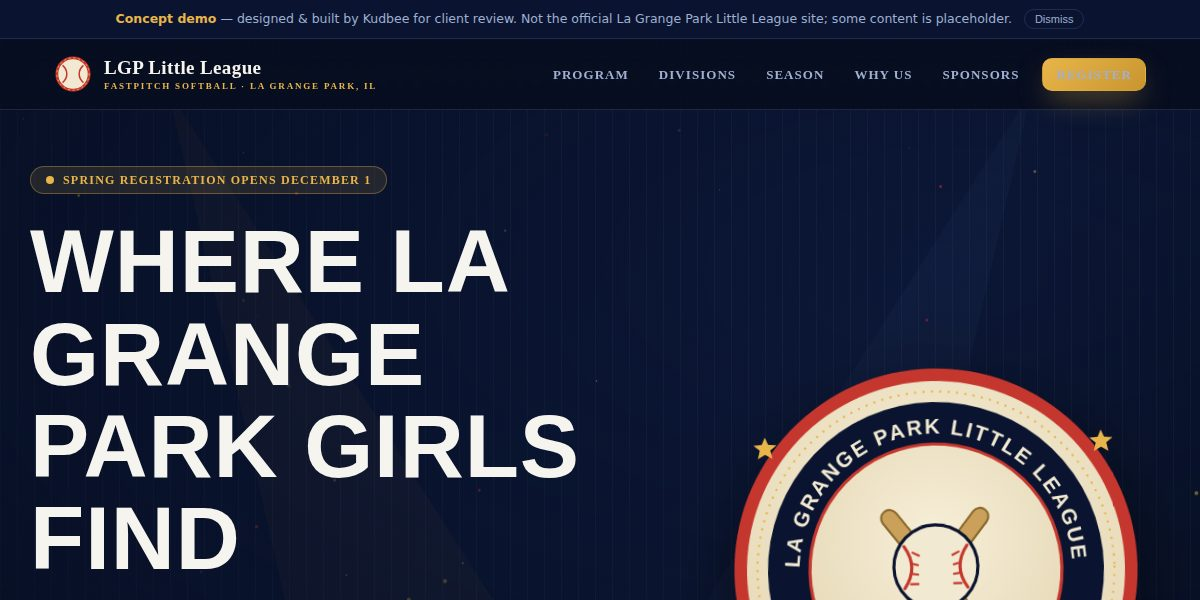
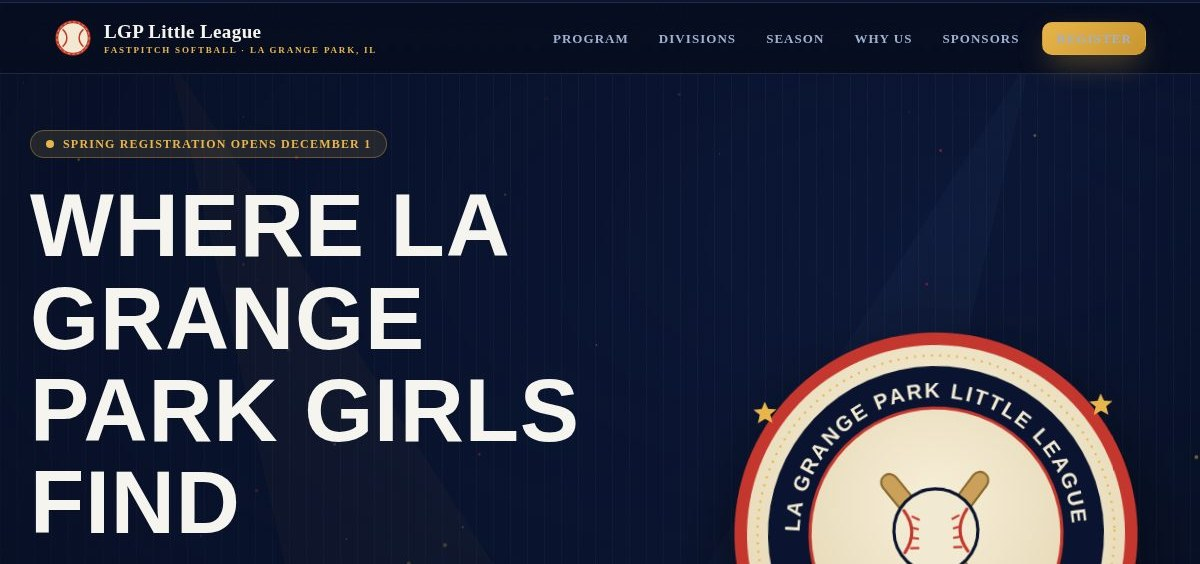
Polish pass: real art and finished thumbnails everywhere
- Crop the baked-in 'concept demo / placeholder' banner strip off both
  client case screenshots (assets/work/*.jpg) and fix intrinsic sizes
- Kudbee Contra card: real Neon Jungle art instead of the procedural
  boss-scene placeholder; gcard hover now covers <img> media too
- Six distinct tool thumbnails (scribe editor, token chart, UTM chips,
  invoice sheet, coverage gauge, agent rings) replacing duplicated
  web1/web2 placeholder scenes; web1 upgraded to a real browser mock
- Riff II gets its own green-forward chart art (was identical to Riff)
- Fix inline-span thumb containers ignoring aspect-ratio (m-thumb/g-art
  now block-level; canvases painted at the correct 16:9)

Verified: node --check on all scripts; Chromium render desktop+mobile
with zero console errors; reduced-motion pass; section screenshots.

Claude-Session: https://claude.ai/code/session_01Fp66zimDq1JXjSQabAEu2n

diff --git a/index.html b/index.html
@@ -456,7 +456,7 @@ html:not(.js) .story .step { opacity: 1; }
 .mini::after { content: ""; position: absolute; inset: 0; opacity: 0; transition: opacity 0.4s; background: radial-gradient(420px 200px at var(--mx, 50%) 0%, rgba(111,91,255,0.12), transparent 65%); pointer-events: none; }
 .mini:hover { transform: translateY(-5px); border-color: var(--border); background: var(--panel-2); }
 .mini:hover::after { opacity: 1; }
-.mini .m-thumb { border-radius: 12px; overflow: hidden; aspect-ratio: 16/9; margin-bottom: 16px; border: 1px solid var(--border-soft); }
+.mini .m-thumb { display: block; border-radius: 12px; overflow: hidden; aspect-ratio: 16/9; margin-bottom: 16px; border: 1px solid var(--border-soft); }
 .mini .m-thumb canvas { width: 100%; height: 100%; }
 .mini h4 { font-size: 17px; letter-spacing: -0.01em; }
 .mini .m-cat { display: block; margin-top: 5px; font: 500 12px/1.5 var(--fb); color: var(--dim); }
@@ -483,9 +483,9 @@ html:not(.js) .story .step { opacity: 1; }
     will-change: transform;
 }
 .gcard:hover { transform: translateY(-7px); border-color: rgba(57,230,255,0.35); box-shadow: 0 24px 60px rgba(0,0,0,0.55), 0 0 40px rgba(57,230,255,0.10); }
-.gcard .g-art { position: relative; aspect-ratio: 16/9; overflow: hidden; }
-.gcard .g-art canvas { width: 100%; height: 100%; transition: transform 0.8s var(--ease); }
-.gcard:hover .g-art canvas { transform: scale(1.06); }
+.gcard .g-art { display: block; position: relative; aspect-ratio: 16/9; overflow: hidden; }
+.gcard .g-art canvas, .gcard .g-art img { width: 100%; height: 100%; object-fit: cover; transition: transform 0.8s var(--ease); }
+.gcard:hover .g-art canvas, .gcard:hover .g-art img { transform: scale(1.06); }
 .gcard .g-play {
     position: absolute; right: 14px; bottom: -18px; width: 46px; height: 46px; border-radius: 50%;
     display: flex; align-items: center; justify-content: center; font-size: 15px; color: #04040a;
@@ -493,7 +493,7 @@ html:not(.js) .story .step { opacity: 1; }
     transition: transform 0.4s var(--ease);
 }
 .gcard:hover .g-play { transform: scale(1.12) rotate(8deg); }
-.gcard .g-meta { position: relative; padding: 22px 20px 20px; }
+.gcard .g-meta { display: block; position: relative; padding: 22px 20px 20px; }
 .gcard h4 { font-size: 18px; }
 .gcard .g-cat { display: block; margin-top: 4px; font: 500 12px/1.5 var(--fb); color: var(--dim); }
 .gcard .g-badge { position: absolute; left: 14px; top: 12px; font: 700 10px/1 var(--fd); letter-spacing: 0.18em; text-transform: uppercase; color: var(--c, var(--cyan)); border: 1px solid currentColor; border-radius: 999px; padding: 6px 11px; background: rgba(5,5,10,0.55); -webkit-backdrop-filter: blur(6px); backdrop-filter: blur(6px); }
@@ -933,7 +933,7 @@ footer { position: relative; z-index: 2; border-top: 1px solid var(--border-soft
 
         <article class="case" data-rv>
             <a class="c-media" href="clients/modernmed/index.html" aria-label="View the ModernMed Chicago site">
-                <img src="assets/work/modernmed.jpg" alt="ModernMed Chicago — concierge medical clinic website designed by Kudbee" loading="lazy" width="1200" height="600">
+                <img src="assets/work/modernmed.jpg" alt="ModernMed Chicago — concierge medical clinic website designed by Kudbee" loading="lazy" width="1200" height="564">
                 <span class="c-glare"></span>
             </a>
             <div class="c-body">
@@ -948,7 +948,7 @@ footer { position: relative; z-index: 2; border-top: 1px solid var(--border-soft
 
         <article class="case flip" data-rv>
             <a class="c-media" href="clients/grange-park-fastpitch/index.html" aria-label="View the La Grange Park Fastpitch site">
-                <img src="assets/work/lagrange.jpg" alt="La Grange Park Fastpitch — youth softball league website designed by Kudbee" loading="lazy" width="1200" height="600">
+                <img src="assets/work/lagrange.jpg" alt="La Grange Park Fastpitch — youth softball league website designed by Kudbee" loading="lazy" width="1200" height="564">
                 <span class="c-glare"></span>
             </a>
             <div class="c-body">
@@ -962,12 +962,12 @@ footer { position: relative; z-index: 2; border-top: 1px solid var(--border-soft
         </article>
 
         <div class="mini-grid">
-            <a class="mini" data-rv href="tools/kudbee-scribe/index.html"><span class="m-thumb"><canvas class="shot-canvas" data-scene="web2" aria-hidden="true"></canvas></span><h4>Kudbee Scribe</h4><span class="m-cat">Tool · Privacy-first writing assistant — 12 live checks, in-browser</span><span class="m-go">Open →</span></a>
-            <a class="mini" data-rv style="--rvd:0.08s" href="tools/token-analyzer/index.html"><span class="m-thumb"><canvas class="shot-canvas" data-scene="web1" aria-hidden="true"></canvas></span><h4>Token Price Analyzer</h4><span class="m-cat">Tool · AI token spend across Claude, GPT &amp; Gemini</span><span class="m-go">Open →</span></a>
+            <a class="mini" data-rv href="tools/kudbee-scribe/index.html"><span class="m-thumb"><canvas class="shot-canvas" data-scene="scribe" aria-hidden="true"></canvas></span><h4>Kudbee Scribe</h4><span class="m-cat">Tool · Privacy-first writing assistant — 12 live checks, in-browser</span><span class="m-go">Open →</span></a>
+            <a class="mini" data-rv style="--rvd:0.08s" href="tools/token-analyzer/index.html"><span class="m-thumb"><canvas class="shot-canvas" data-scene="tokens" aria-hidden="true"></canvas></span><h4>Token Price Analyzer</h4><span class="m-cat">Tool · AI token spend across Claude, GPT &amp; Gemini</span><span class="m-go">Open →</span></a>
             <a class="mini" data-rv style="--rvd:0.16s" href="#agents"><span class="m-thumb"><canvas class="shot-canvas" data-scene="ai2" aria-hidden="true"></canvas></span><h4>Support Agent Suite</h4><span class="m-cat">AI · Six focused agents that keep support moving</span><span class="m-go">View suite →</span></a>
-            <a class="mini" data-rv href="tools/utm-builder/index.html"><span class="m-thumb"><canvas class="shot-canvas" data-scene="ai1" aria-hidden="true"></canvas></span><h4>UTM Builder</h4><span class="m-cat">Tool · Clean campaign URLs with presets &amp; history</span><span class="m-go">Open →</span></a>
-            <a class="mini" data-rv style="--rvd:0.08s" href="tools/invoice-generator/index.html"><span class="m-thumb"><canvas class="shot-canvas" data-scene="web1" aria-hidden="true"></canvas></span><h4>Invoice Generator</h4><span class="m-cat">Tool · Polished PDF invoices, fully in-browser</span><span class="m-go">Open →</span></a>
-            <a class="mini" data-rv style="--rvd:0.16s" href="tools/coverage-dashboard/index.html"><span class="m-thumb"><canvas class="shot-canvas" data-scene="web2" aria-hidden="true"></canvas></span><h4>Coverage Breakdown</h4><span class="m-cat">Tool · The exact per-file numbers CI enforces</span><span class="m-go">Open →</span></a>
+            <a class="mini" data-rv href="tools/utm-builder/index.html"><span class="m-thumb"><canvas class="shot-canvas" data-scene="utm" aria-hidden="true"></canvas></span><h4>UTM Builder</h4><span class="m-cat">Tool · Clean campaign URLs with presets &amp; history</span><span class="m-go">Open →</span></a>
+            <a class="mini" data-rv style="--rvd:0.08s" href="tools/invoice-generator/index.html"><span class="m-thumb"><canvas class="shot-canvas" data-scene="invoice" aria-hidden="true"></canvas></span><h4>Invoice Generator</h4><span class="m-cat">Tool · Polished PDF invoices, fully in-browser</span><span class="m-go">Open →</span></a>
+            <a class="mini" data-rv style="--rvd:0.16s" href="tools/coverage-dashboard/index.html"><span class="m-thumb"><canvas class="shot-canvas" data-scene="coverage" aria-hidden="true"></canvas></span><h4>Coverage Breakdown</h4><span class="m-cat">Tool · The exact per-file numbers CI enforces</span><span class="m-go">Open →</span></a>
         </div>
 
         <div class="receipts">
@@ -1008,10 +1008,10 @@ footer { position: relative; z-index: 2; border-top: 1px solid var(--border-soft
         <div class="game-grid">
             <a class="gcard" data-rv href="games/kudbee-darts/index.html"><span class="g-art"><canvas class="shot-canvas" data-scene="darts" aria-hidden="true"></canvas><span class="g-badge" style="--c:var(--cyan)">League</span><span class="g-play" aria-hidden="true">▶</span></span><span class="g-meta"><h4>Kudbee Darts</h4><span class="g-cat">501 &amp; Cricket · smart AI rivals · XP ladder &amp; skins</span></span></a>
             <a class="gcard" data-rv style="--rvd:0.07s" href="games/kudbee-riff/index.html"><span class="g-art"><canvas class="shot-canvas" data-scene="riff" aria-hidden="true"></canvas><span class="g-badge" style="--c:var(--amber)">Rhythm</span><span class="g-play" aria-hidden="true">▶</span></span><span class="g-meta"><h4>Kudbee Riff</h4><span class="g-cat">Fret Rush — charted to the real beats of the track</span></span></a>
-            <a class="gcard" data-rv style="--rvd:0.14s" href="games/kudbee-riff-2/index.html"><span class="g-art"><canvas class="shot-canvas" data-scene="riff" aria-hidden="true"></canvas><span class="g-badge" style="--c:var(--green)">New track</span><span class="g-play" aria-hidden="true">▶</span></span><span class="g-meta"><h4>Kudbee Riff II</h4><span class="g-cat">Neon Fret Rush — new studio track, fresh leaderboard</span></span></a>
+            <a class="gcard" data-rv style="--rvd:0.14s" href="games/kudbee-riff-2/index.html"><span class="g-art"><canvas class="shot-canvas" data-scene="riff2" aria-hidden="true"></canvas><span class="g-badge" style="--c:var(--green)">New track</span><span class="g-play" aria-hidden="true">▶</span></span><span class="g-meta"><h4>Kudbee Riff II</h4><span class="g-cat">Neon Fret Rush — new studio track, fresh leaderboard</span></span></a>
             <a class="gcard" data-rv href="games/kudbee-pinball/index.html"><span class="g-art"><canvas class="shot-canvas" data-scene="pinball" aria-hidden="true"></canvas><span class="g-badge" style="--c:var(--magenta)">Pinball</span><span class="g-play" aria-hidden="true">▶</span></span><span class="g-meta"><h4>Kudbee Pinball — Starbreak</h4><span class="g-cat">Neon space table · skill shots · keep the ball alive</span></span></a>
             <a class="gcard" data-rv style="--rvd:0.07s" href="games/kudbee-voidrunner/index.html"><span class="g-art"><canvas class="shot-canvas" data-scene="voidrunner" aria-hidden="true"></canvas><span class="g-badge" style="--c:var(--cyan)">Flyer</span><span class="g-play" aria-hidden="true">▶</span></span><span class="g-meta"><h4>Kudbee Voidrunner</h4><span class="g-cat">Asteroid Dive — steer, dodge, blast into the void</span></span></a>
-            <a class="gcard" data-rv style="--rvd:0.14s" href="games/kudbee-contra/index.html"><span class="g-art"><canvas class="shot-canvas" data-scene="boss" aria-hidden="true"></canvas><span class="g-badge" style="--c:var(--green)">Flagship</span><span class="g-play" aria-hidden="true">▶</span></span><span class="g-meta"><h4>Kudbee Contra</h4><span class="g-cat">2.5D run-and-gun · the Hive Sentinel awaits</span></span></a>
+            <a class="gcard" data-rv style="--rvd:0.14s" href="games/kudbee-contra/index.html"><span class="g-art"><img src="games/kudbee-contra/assets/backgrounds/neon-jungle-preview.jpg" alt="" loading="lazy"><span class="g-badge" style="--c:var(--green)">Flagship</span><span class="g-play" aria-hidden="true">▶</span></span><span class="g-meta"><h4>Kudbee Contra</h4><span class="g-cat">2.5D run-and-gun · the Hive Sentinel awaits</span></span></a>
         </div>
 
         <div class="league" data-rv>
@@ -1759,14 +1759,127 @@ footer { position: relative; z-index: 2; border-top: 1px solid var(--border-soft
         ctx.fillStyle = palette.cyan; ctx.beginPath(); ctx.arc(0, 0, 18, 0, 7); ctx.fill();
         ctx.restore();
     }
+    function r(ctx, x, y, ww, hh, rad) {
+        if (ww <= 0 || hh <= 0) return;
+        rad = Math.min(rad, ww / 2, hh / 2);
+        ctx.beginPath(); ctx.moveTo(x + rad, y);
+        ctx.arcTo(x + ww, y, x + ww, y + hh, rad); ctx.arcTo(x + ww, y + hh, x, y + hh, rad);
+        ctx.arcTo(x, y + hh, x, y, rad); ctx.arcTo(x, y, x + ww, y, rad); ctx.closePath(); ctx.fill();
+    }
     var scenes = {
         jungle: function (ctx, w, h) { bg(ctx, w, h); moon(ctx, w * 0.78, h * 0.26, h * 0.1, palette.violet); moon(ctx, w * 0.3, h * 0.2, h * 0.05, palette.cyan); canopy(ctx, w, h, h * 0.66, '#0c2a1e'); var gy = h * 0.78; ground(ctx, w, h, gy); shafts(ctx, w, h); operative(ctx, w * 0.32, gy, h / 110, 1); drone(ctx, w * 0.7, h * 0.4, h / 130); bolt(ctx, w * 0.45, gy - h * 0.13, palette.cyan); },
         combat: function (ctx, w, h) { bg(ctx, w, h); canopy(ctx, w, h, h * 0.62, '#0c2a1e'); var gy = h * 0.8; ground(ctx, w, h, gy); operative(ctx, w * 0.22, gy, h / 105, 1); for (var i = 0; i < 4; i++) drone(ctx, w * (0.5 + i * 0.13), h * (0.3 + (i % 2) * 0.18), h / 150); for (var j = 0; j < 5; j++) bolt(ctx, w * (0.3 + j * 0.09), gy - h * 0.22 + (j % 2) * 14, palette.amber); shafts(ctx, w, h); },
         boss: function (ctx, w, h) { bg(ctx, w, h); var gy = h * 0.82; ground(ctx, w, h, gy); boss(ctx, w * 0.62, h * 0.42, h / 150); operative(ctx, w * 0.2, gy, h / 105, 1); for (var k = 0; k < 6; k++) { var a = -0.6 + k * 0.2; bolt(ctx, w * 0.5 + Math.cos(a) * 30, h * 0.45 + Math.sin(a) * 30, palette.red); } shafts(ctx, w, h); },
-        web1: function (ctx, w, h) { var g = ctx.createLinearGradient(0, 0, w, h); g.addColorStop(0, '#0e2a4a'); g.addColorStop(1, '#0a1226'); ctx.fillStyle = g; ctx.fillRect(0, 0, w, h); ctx.fillStyle = 'rgba(57,230,255,0.18)'; ctx.fillRect(w * 0.1, h * 0.2, w * 0.8, h * 0.12); ctx.fillStyle = 'rgba(255,255,255,0.12)'; for (var i = 0; i < 3; i++) ctx.fillRect(w * 0.1 + i * w * 0.28, h * 0.45, w * 0.22, h * 0.3); },
+        web1: function (ctx, w, h) {
+            var g = ctx.createLinearGradient(0, 0, w, h); g.addColorStop(0, '#0c1c36'); g.addColorStop(1, '#090d20');
+            ctx.fillStyle = g; ctx.fillRect(0, 0, w, h);
+            // browser chrome
+            ctx.fillStyle = 'rgba(255,255,255,0.06)'; ctx.fillRect(0, 0, w, h * 0.12);
+            var dots = ['#ff5f57', '#febc2e', '#28c840'];
+            for (var d = 0; d < 3; d++) { ctx.fillStyle = dots[d]; ctx.beginPath(); ctx.arc(w * 0.045 + d * w * 0.032, h * 0.06, h * 0.018, 0, 7); ctx.fill(); }
+            ctx.fillStyle = 'rgba(255,255,255,0.09)';
+            r(ctx, w * 0.2, h * 0.03, w * 0.6, h * 0.06, h * 0.03);
+            // hero band with gradient headline
+            var hg = ctx.createLinearGradient(w * 0.08, 0, w * 0.6, 0); hg.addColorStop(0, palette.cyan); hg.addColorStop(1, palette.violet);
+            ctx.fillStyle = hg; r(ctx, w * 0.08, h * 0.24, w * 0.42, h * 0.075, h * 0.02);
+            ctx.fillStyle = 'rgba(255,255,255,0.35)'; r(ctx, w * 0.08, h * 0.36, w * 0.3, h * 0.035, h * 0.017);
+            ctx.save(); ctx.shadowColor = palette.cyan; ctx.shadowBlur = 12; ctx.fillStyle = palette.cyan;
+            r(ctx, w * 0.08, h * 0.46, w * 0.14, h * 0.07, h * 0.035); ctx.restore();
+            // three feature cards
+            for (var i = 0; i < 3; i++) {
+                var cx = w * 0.08 + i * w * 0.29;
+                ctx.fillStyle = 'rgba(255,255,255,0.06)'; r(ctx, cx, h * 0.64, w * 0.25, h * 0.26, h * 0.03);
+                ctx.fillStyle = [palette.cyan, palette.violet, palette.green][i];
+                ctx.globalAlpha = 0.8; r(ctx, cx + w * 0.02, h * 0.68, w * 0.05, h * 0.05, h * 0.015); ctx.globalAlpha = 1;
+                ctx.fillStyle = 'rgba(255,255,255,0.22)'; r(ctx, cx + w * 0.02, h * 0.77, w * 0.19, h * 0.025, h * 0.012);
+                ctx.fillStyle = 'rgba(255,255,255,0.12)'; r(ctx, cx + w * 0.02, h * 0.82, w * 0.14, h * 0.025, h * 0.012);
+            }
+        },
         web2: function (ctx, w, h) { var g = ctx.createLinearGradient(0, 0, w, h); g.addColorStop(0, '#1a0e3e'); g.addColorStop(1, '#0a0a1e'); ctx.fillStyle = g; ctx.fillRect(0, 0, w, h); ctx.strokeStyle = 'rgba(196,107,255,0.4)'; ctx.lineWidth = 2; ctx.beginPath(); ctx.moveTo(w * 0.1, h * 0.7); for (var x = 0.1; x <= 0.9; x += 0.1) ctx.lineTo(w * x, h * (0.4 + Math.sin(x * 9) * 0.2)); ctx.stroke(); ctx.fillStyle = 'rgba(124,255,178,0.5)'; ctx.fillRect(w * 0.1, h * 0.2, w * 0.3, h * 0.08); },
         ai1: function (ctx, w, h) { ctx.fillStyle = '#120a2e'; ctx.fillRect(0, 0, w, h); ctx.strokeStyle = 'rgba(196,107,255,0.5)'; ctx.fillStyle = palette.violet; for (var i = 0; i < 6; i++) { var nx = w * (0.2 + Math.random() * 0.6), ny = h * (0.2 + Math.random() * 0.6); ctx.shadowColor = palette.violet; ctx.shadowBlur = 12; ctx.beginPath(); ctx.arc(nx, ny, 6, 0, 7); ctx.fill(); } ctx.shadowBlur = 0; },
         ai2: function (ctx, w, h) { ctx.fillStyle = '#0a1a2e'; ctx.fillRect(0, 0, w, h); ctx.fillStyle = palette.cyan; ctx.shadowColor = palette.cyan; ctx.shadowBlur = 14; ctx.beginPath(); ctx.arc(w * 0.5, h * 0.5, h * 0.18, 0, 7); ctx.fill(); ctx.shadowBlur = 0; ctx.strokeStyle = 'rgba(57,230,255,0.4)'; for (var i = 0; i < 5; i++) { ctx.beginPath(); ctx.arc(w * 0.5, h * 0.5, h * (0.22 + i * 0.07), 0, 7); ctx.stroke(); } },
+        scribe: function (ctx, w, h) {
+            var g = ctx.createLinearGradient(0, 0, 0, h); g.addColorStop(0, '#151032'); g.addColorStop(1, '#0a081c');
+            ctx.fillStyle = g; ctx.fillRect(0, 0, w, h);
+            ctx.fillStyle = 'rgba(255,255,255,0.05)'; r(ctx, w * 0.08, h * 0.1, w * 0.84, h * 0.8, h * 0.04);
+            var lines = [0.86, 0.62, 0.78, 0.5, 0.7, 0.4];
+            for (var i = 0; i < lines.length; i++) {
+                var y = h * (0.2 + i * 0.105);
+                ctx.fillStyle = 'rgba(255,255,255,0.2)'; r(ctx, w * 0.14, y, w * 0.72 * lines[i], h * 0.035, h * 0.017);
+                if (i === 1) { ctx.fillStyle = 'rgba(255,211,77,0.55)'; r(ctx, w * 0.14 + w * 0.2, y + h * 0.045, w * 0.16, h * 0.014, h * 0.007); }
+                if (i === 3) { ctx.fillStyle = 'rgba(124,255,178,0.55)'; r(ctx, w * 0.14, y + h * 0.045, w * 0.12, h * 0.014, h * 0.007); }
+            }
+            ctx.save(); ctx.shadowColor = palette.violet; ctx.shadowBlur = 14; ctx.fillStyle = palette.violet;
+            ctx.beginPath(); ctx.arc(w * 0.82, h * 0.76, h * 0.09, 0, 7); ctx.fill(); ctx.restore();
+            ctx.strokeStyle = '#0a081c'; ctx.lineWidth = 2.5; ctx.beginPath();
+            ctx.moveTo(w * 0.79, h * 0.79); ctx.lineTo(w * 0.85, h * 0.73); ctx.stroke();
+        },
+        tokens: function (ctx, w, h) {
+            var g = ctx.createLinearGradient(0, 0, 0, h); g.addColorStop(0, '#0a1a2e'); g.addColorStop(1, '#070c1c');
+            ctx.fillStyle = g; ctx.fillRect(0, 0, w, h);
+            ctx.strokeStyle = 'rgba(255,255,255,0.08)'; ctx.lineWidth = 1;
+            for (var gy = 1; gy <= 3; gy++) { ctx.beginPath(); ctx.moveTo(w * 0.08, h * 0.85 - gy * h * 0.2); ctx.lineTo(w * 0.92, h * 0.85 - gy * h * 0.2); ctx.stroke(); }
+            var bars = [0.34, 0.52, 0.42, 0.66, 0.5, 0.78], cols = [palette.cyan, palette.violet];
+            for (var i = 0; i < bars.length; i++) {
+                var bx = w * (0.11 + i * 0.135), bh = h * bars[i] * 0.72;
+                ctx.save(); ctx.shadowColor = cols[i % 2]; ctx.shadowBlur = 10; ctx.fillStyle = cols[i % 2];
+                ctx.globalAlpha = 0.85; r(ctx, bx, h * 0.85 - bh, w * 0.075, bh, w * 0.015); ctx.restore();
+            }
+            ctx.save(); ctx.strokeStyle = palette.green; ctx.shadowColor = palette.green; ctx.shadowBlur = 8; ctx.lineWidth = 2; ctx.beginPath();
+            for (var p2 = 0; p2 < bars.length; p2++) { var px = w * (0.148 + p2 * 0.135), py = h * 0.82 - h * bars[p2] * 0.72; if (p2 === 0) ctx.moveTo(px, py); else ctx.lineTo(px, py); }
+            ctx.stroke(); ctx.restore();
+        },
+        utm: function (ctx, w, h) {
+            var g = ctx.createLinearGradient(0, 0, w, h); g.addColorStop(0, '#122212'); g.addColorStop(1, '#081408');
+            ctx.fillStyle = g; ctx.fillRect(0, 0, w, h);
+            ctx.fillStyle = 'rgba(255,255,255,0.07)'; r(ctx, w * 0.08, h * 0.16, w * 0.84, h * 0.16, h * 0.08);
+            ctx.save(); ctx.shadowColor = palette.green; ctx.shadowBlur = 10; ctx.fillStyle = palette.green;
+            r(ctx, w * 0.12, h * 0.205, w * 0.34, h * 0.07, h * 0.035); ctx.restore();
+            ctx.fillStyle = 'rgba(124,255,178,0.35)'; r(ctx, w * 0.48, h * 0.205, w * 0.4, h * 0.07, h * 0.035);
+            var chips = [[0.08, 0.48, 0.24, palette.cyan], [0.36, 0.48, 0.28, palette.violet], [0.08, 0.66, 0.32, palette.amber], [0.44, 0.66, 0.2, palette.green]];
+            for (var i = 0; i < chips.length; i++) {
+                var c = chips[i];
+                ctx.fillStyle = 'rgba(255,255,255,0.06)'; r(ctx, w * c[0], h * c[1], w * c[2], h * 0.12, h * 0.06);
+                ctx.save(); ctx.shadowColor = c[3]; ctx.shadowBlur = 8; ctx.fillStyle = c[3];
+                ctx.beginPath(); ctx.arc(w * c[0] + h * 0.06, h * c[1] + h * 0.06, h * 0.025, 0, 7); ctx.fill(); ctx.restore();
+                ctx.fillStyle = 'rgba(255,255,255,0.25)'; r(ctx, w * c[0] + h * 0.11, h * c[1] + h * 0.045, w * c[2] - h * 0.16, h * 0.03, h * 0.015);
+            }
+            ctx.save(); ctx.strokeStyle = palette.green; ctx.shadowColor = palette.green; ctx.shadowBlur = 8; ctx.lineWidth = 2;
+            ctx.beginPath(); ctx.arc(w * 0.84, h * 0.72, h * 0.06, 0.5, 3.6); ctx.stroke();
+            ctx.beginPath(); ctx.arc(w * 0.9, h * 0.66, h * 0.06, 3.6, 6.8); ctx.stroke(); ctx.restore();
+        },
+        invoice: function (ctx, w, h) {
+            var g = ctx.createLinearGradient(0, 0, 0, h); g.addColorStop(0, '#241c0c'); g.addColorStop(1, '#120e08');
+            ctx.fillStyle = g; ctx.fillRect(0, 0, w, h);
+            ctx.fillStyle = 'rgba(255,255,255,0.07)'; r(ctx, w * 0.26, h * 0.08, w * 0.48, h * 0.84, w * 0.02);
+            ctx.save(); ctx.shadowColor = palette.amber; ctx.shadowBlur = 10; ctx.fillStyle = palette.amber;
+            r(ctx, w * 0.31, h * 0.15, w * 0.14, h * 0.05, h * 0.025); ctx.restore();
+            ctx.fillStyle = 'rgba(255,255,255,0.2)'; r(ctx, w * 0.55, h * 0.15, w * 0.14, h * 0.035, h * 0.017);
+            for (var i = 0; i < 4; i++) {
+                var y = h * (0.32 + i * 0.1);
+                ctx.fillStyle = 'rgba(255,255,255,0.18)'; r(ctx, w * 0.31, y, w * 0.22, h * 0.03, h * 0.015);
+                ctx.fillStyle = 'rgba(255,211,77,0.4)'; r(ctx, w * 0.61, y, w * 0.08, h * 0.03, h * 0.015);
+            }
+            ctx.strokeStyle = 'rgba(255,255,255,0.15)'; ctx.lineWidth = 1;
+            ctx.beginPath(); ctx.moveTo(w * 0.31, h * 0.74); ctx.lineTo(w * 0.69, h * 0.74); ctx.stroke();
+            ctx.save(); ctx.shadowColor = palette.green; ctx.shadowBlur = 10; ctx.fillStyle = palette.green;
+            r(ctx, w * 0.47, h * 0.79, w * 0.22, h * 0.07, h * 0.035); ctx.restore();
+        },
+        coverage: function (ctx, w, h) {
+            var g = ctx.createLinearGradient(0, 0, 0, h); g.addColorStop(0, '#0c1c2c'); g.addColorStop(1, '#070e18');
+            ctx.fillStyle = g; ctx.fillRect(0, 0, w, h);
+            var cx = w * 0.5, cy = h * 0.58, R = Math.min(w, h) * 0.34;
+            var a0 = Math.PI * 0.8, a1 = Math.PI * 2.2, pct = 0.87;
+            ctx.strokeStyle = 'rgba(255,255,255,0.1)'; ctx.lineWidth = R * 0.16; ctx.lineCap = 'round';
+            ctx.beginPath(); ctx.arc(cx, cy, R, a0, a1); ctx.stroke();
+            var arcG = ctx.createLinearGradient(cx - R, cy, cx + R, cy); arcG.addColorStop(0, palette.cyan); arcG.addColorStop(1, palette.green);
+            ctx.save(); ctx.shadowColor = palette.green; ctx.shadowBlur = 14; ctx.strokeStyle = arcG;
+            ctx.beginPath(); ctx.arc(cx, cy, R, a0, a0 + (a1 - a0) * pct); ctx.stroke(); ctx.restore();
+            ctx.fillStyle = 'rgba(255,255,255,0.9)'; ctx.font = '600 ' + (R * 0.42) + 'px Space Grotesk, sans-serif';
+            ctx.textAlign = 'center'; ctx.textBaseline = 'middle'; ctx.fillText('87%', cx, cy - R * 0.05);
+            ctx.fillStyle = 'rgba(255,255,255,0.35)'; ctx.font = '500 ' + (R * 0.14) + 'px Inter, sans-serif';
+            ctx.fillText('COVERED · CI-ENFORCED', cx, cy + R * 0.28);
+        },
         darts: function (ctx, w, h) {
             var g = ctx.createLinearGradient(0, 0, 0, h); g.addColorStop(0, '#0a0f24'); g.addColorStop(1, '#05060f'); ctx.fillStyle = g; ctx.fillRect(0, 0, w, h);
             var cx = w * 0.5, cy = h * 0.5, R = Math.min(w, h) * 0.42;
@@ -1799,6 +1912,23 @@ footer { position: relative; z-index: 2; border-top: 1px solid var(--border-soft
                 }
             }
             ctx.strokeStyle = 'rgba(255,255,255,0.5)'; ctx.lineWidth = 3; ctx.beginPath(); ctx.moveTo(lw * 0.5, h * 0.82); ctx.lineTo(w - lw * 0.5, h * 0.82); ctx.stroke();
+        },
+        riff2: function (ctx, w, h) {
+            var g = ctx.createLinearGradient(0, 0, 0, h); g.addColorStop(0, '#07120b'); g.addColorStop(1, '#04070f');
+            ctx.fillStyle = g; ctx.fillRect(0, 0, w, h);
+            var cols = [palette.green, palette.cyan, palette.amber, palette.violet], n = 4, lw = w / (n + 1);
+            for (var i = 0; i < n; i++) {
+                var x = lw * (i + 1);
+                ctx.strokeStyle = 'rgba(120,210,170,0.22)'; ctx.lineWidth = 2; ctx.beginPath(); ctx.moveTo(x, 0); ctx.lineTo(x, h); ctx.stroke();
+                for (var j = 0; j < 3; j++) {
+                    var ny = h * (0.1 + ((i * 2 + j * 3) % 7) * 0.11);
+                    ctx.save(); ctx.shadowColor = cols[i]; ctx.shadowBlur = 14; ctx.fillStyle = cols[i];
+                    ctx.beginPath(); ctx.arc(x, ny, Math.min(w, h) * 0.045, 0, 7); ctx.fill(); ctx.restore();
+                }
+            }
+            ctx.save(); ctx.strokeStyle = palette.green; ctx.shadowColor = palette.green; ctx.shadowBlur = 12; ctx.lineWidth = 3;
+            ctx.beginPath(); ctx.moveTo(lw * 0.5, h * 0.82); ctx.lineTo(w - lw * 0.5, h * 0.82); ctx.stroke();
+            ctx.globalAlpha = 0.7; ctx.beginPath(); ctx.arc(lw * 2, h * 0.82, Math.min(w, h) * 0.07, 0, 7); ctx.stroke(); ctx.restore();
         },
         pinball: function (ctx, w, h) {
             var g = ctx.createLinearGradient(0, 0, 0, h); g.addColorStop(0, '#0a0a1e'); g.addColorStop(1, '#05060f'); ctx.fillStyle = g; ctx.fillRect(0, 0, w, h);